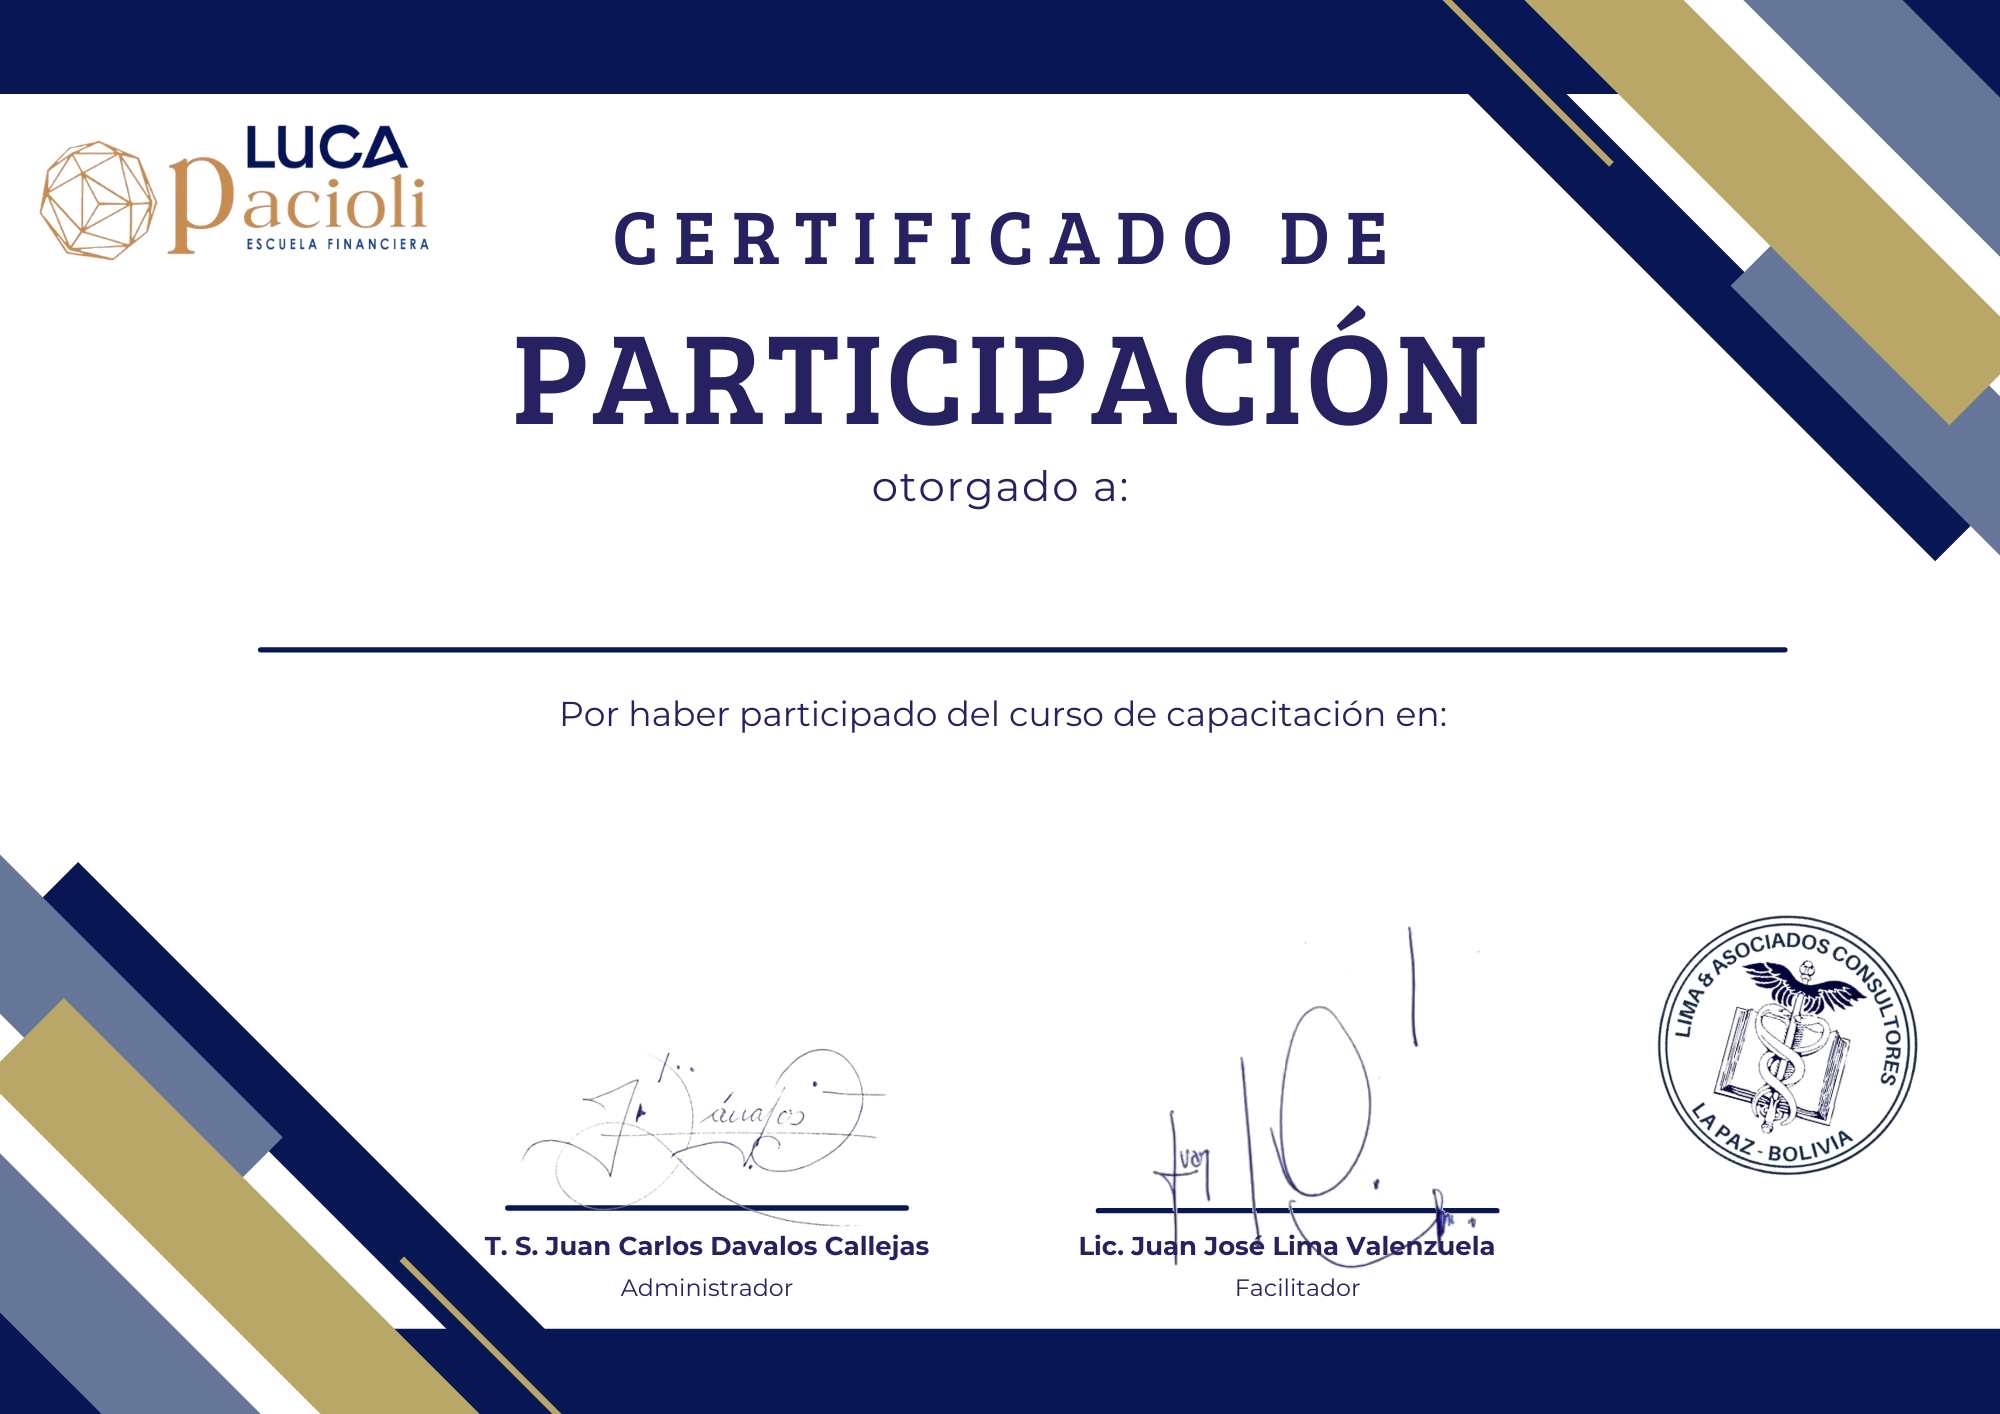
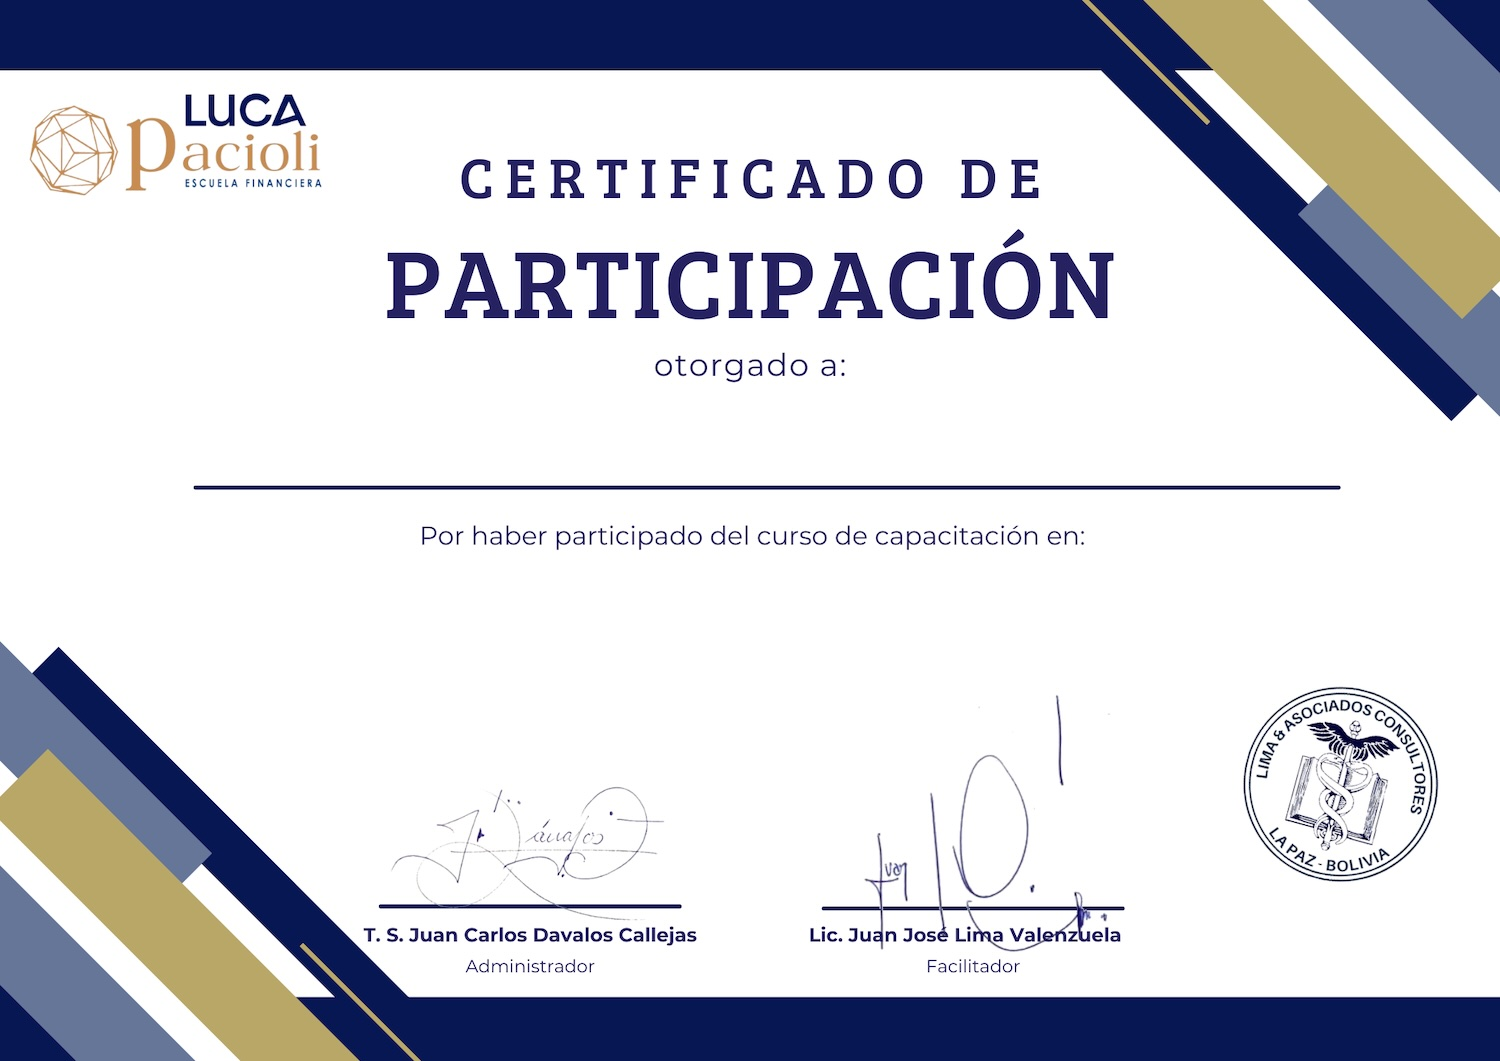
Ajuste de actualización

diff --git a/academico/views.py b/academico/views.py
@@ -4060,8 +4060,8 @@ def descargar_certificado_publico(request, inscripcion_id):
     
     nombre_limpio = inscrito.participante.nombre_completo.replace(" ", "_")
     
-    # CAMBIO AQUÍ: Usamos 'application/octet-stream' para forzar la descarga en móviles
-    response = HttpResponse(pdf_file, content_type='application/octet-stream')
+    # CAMBIO AQUÍ: Usamos 'application/pdf' para evitar el colapso de memoria en móviles
+    response = HttpResponse(pdf_file, content_type='application/pdf')
     response['Content-Disposition'] = f'attachment; filename="Certificado_{nombre_limpio}.pdf"'
     
     return response
